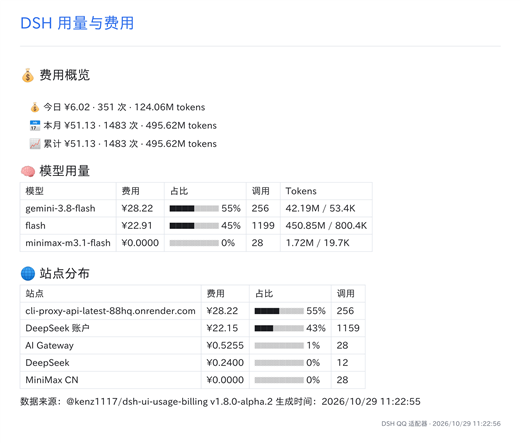
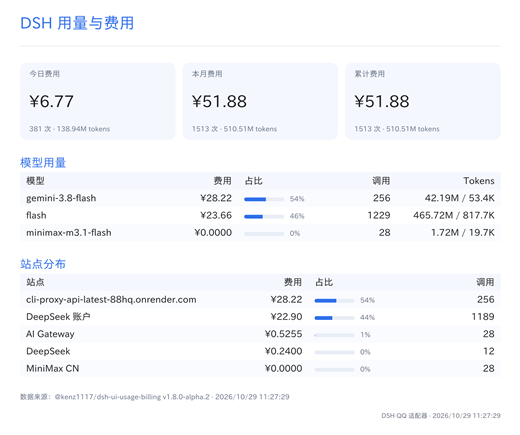
feat(usage): dedicated Typst card layout
- add buildUsageTypst(): rounded stat cards for today/month/total, optional
  budget card with progress bar, per-model/site share bars, zebra tables,
  accent section titles, and light/dark palettes.
- renderTextWithTypst/renderTextImage accept a raw `typstBody`, bypassing the
  Markdown converter; /usage sends the custom card with the Markdown summary
  kept as the text fallback.
- escape Typst markup in data notes and model/site names.
- refresh docs/images/usage-billing.png; README/CHANGELOG updated.
- tests: usage layout + custom Typst body compile; full suite 271 / 270 pass /
  1 skip. Version remains 0.2.2.

diff --git a/lib/sync/usage.js b/lib/sync/usage.js
@@ -268,3 +268,160 @@ export function buildUsageMarkdown(stats = {}, now = Date.now()) {
   );
   return lines.join('\n');
 }
+
+/** Escape plain text placed inside a Typst content block. */
+function typstEscape(value) {
+  return String(value ?? '').replace(/[\\)#$[\]*_`<>@~]/g, (char) => `\\${char}`);
+}
+
+const TYPST_PALETTES = {
+  light: {
+    text: '#1c1d21',
+    muted: '#667085',
+    accent: '#2f6feb',
+    card: '#f4f7fd',
+    border: '#e6eaf2',
+    barBg: '#e8edf6',
+    rowAlt: '#fafbfe',
+  },
+  dark: {
+    text: '#e8eaed',
+    muted: '#a0a6b2',
+    accent: '#79a6ff',
+    card: '#1c222b',
+    border: '#2c313a',
+    barBg: '#2b323d',
+    rowAlt: '#181d25',
+  },
+};
+
+/**
+ * Dedicated Typst layout for `/usage` (rounded stat cards, budget progress,
+ * share bars and zebra tables) — separate from the generic Markdown renderer.
+ * @param {Object} stats
+ * @param {{now?:number, theme?:'light'|'dark'}} [options]
+ * @returns {string} Typst markup (body only)
+ */
+export function buildUsageTypst(stats = {}, { now = Date.now(), theme = 'light' } = {}) {
+  const c = TYPST_PALETTES[theme === 'dark' ? 'dark' : 'light'];
+  const todayKey = localDayKey(new Date(now));
+  const monthKey = todayKey.slice(0, 7);
+  const byDay = stats.byDay && typeof stats.byDay === 'object' ? stats.byDay : {};
+  const today = sumRows([byDay[todayKey] || {}]);
+  const month = sumRows(
+    Object.entries(byDay)
+      .filter(([day]) => String(day).startsWith(monthKey))
+      .map(([, cell]) => cell)
+  );
+  const total = {
+    cost: Number(stats.total?.cost) || 0,
+    calls: Number(stats.total?.calls) || 0,
+    input: Number(stats.total?.input) || 0,
+    output: Number(stats.total?.output) || 0,
+  };
+  const byModel = Object.entries(stats.byModel && typeof stats.byModel === 'object' ? stats.byModel : {})
+    .map(([model, cell]) => ({ model, ...sumRows([cell]) }))
+    .sort((a, b) => b.cost - a.cost)
+    .slice(0, 6);
+  const bySite = Object.entries(stats.bySite && typeof stats.bySite === 'object' ? stats.bySite : {})
+    .map(([site, cell]) => ({ site, ...sumRows([cell]) }))
+    .sort((a, b) => b.cost - a.cost)
+    .slice(0, 5);
+  const totalCost = total.cost > 0 ? total.cost : byModel.reduce((sum, row) => sum + row.cost, 0);
+  const share = (cost) => (totalCost > 0 ? Math.min(100, Math.round((Number(cost) / totalCost) * 100)) : 0);
+  const siteTotal = bySite.reduce((sum, row) => sum + row.cost, 0);
+  const siteShare = (cost) => (siteTotal > 0 ? Math.round((Number(cost) / siteTotal) * 100) : 0);
+
+  const card = (label, value, sub) =>
+    `block(width: 100%, fill: rgb("${c.card}"), radius: 9pt, inset: (x: 12pt, y: 11pt))[
+  #text(size: 10pt, fill: rgb("${c.muted}"))[${label}]
+  #v(3pt)
+  #text(size: 21pt, weight: "bold", fill: rgb("${c.text}"))[${value}]
+  #v(3pt)
+  #text(size: 9pt, fill: rgb("${c.muted}"))[${sub}]
+]`;
+  const shareCell = (percent) =>
+    `#box(width: 52pt, height: 5pt, radius: 2.5pt, fill: rgb("${c.barBg}"), clip: true)[#rect(width: ${percent}%, height: 5pt, fill: rgb("${c.accent}"))] #h(4pt) #text(size: 9pt, fill: rgb("${c.muted}"))[${percent}%]`;
+
+  const cards = [
+    card('今日费用', formatMoney(today.cost), `${today.calls} 次 · ${formatTokens(today.input + today.output)} tokens`),
+    card('本月费用', formatMoney(month.cost), `${month.calls} 次 · ${formatTokens(month.input + month.output)} tokens`),
+    card('累计费用', formatMoney(total.cost), `${total.calls} 次 · ${formatTokens(total.input + total.output)} tokens`),
+  ].join(',\n  ');
+
+  const modelRows = byModel
+    .map(
+      (row) =>
+        `[${typstEscape(row.model)}], [${formatMoney(row.cost)}], [${shareCell(
+          share(row.cost)
+        )}], [${row.calls}], [${formatTokens(row.input)} / ${formatTokens(row.output)}]`
+    )
+    .join(',\n  ');
+
+  const siteRows = bySite
+    .map(
+      (row) =>
+        `[${typstEscape(displaySite(row.site))}], [${formatMoney(row.cost)}], [${shareCell(
+          siteShare(row.cost)
+        )}], [${row.calls}]`
+    )
+    .join(',\n  ');
+
+  const budget = Number(stats.budget);
+  const budgetBlock =
+    Number.isFinite(budget) && budget > 0
+      ? (() => {
+          const used = Math.min(100, (month.cost / budget) * 100);
+          return `\n#v(9pt)
+#block(width: 100%, fill: rgb("${c.card}"), radius: 9pt, inset: (x: 14pt, y: 12pt))[
+  #grid(columns: (1fr, auto),
+    [#text(size: 10pt, fill: rgb("${c.muted}"))[本月预算 ${formatMoney(budget)}]],
+    [#text(size: 9pt, fill: rgb("${c.muted}"))[剩余 ${formatMoney(Math.max(0, budget - month.cost))}]]
+  )
+  #v(4pt)
+  #text(size: 11pt, weight: "bold", fill: rgb("${c.text}"))[已用 ${used.toFixed(1)}%]
+  #v(6pt)
+  #box(width: 100%, height: 7pt, radius: 3.5pt, fill: rgb("${c.barBg}"), clip: true)[
+    #rect(width: ${used.toFixed(1)}%, height: 7pt, fill: rgb("${c.accent}"))
+  ]
+]`;
+        })()
+      : '';
+
+  const dataNote = `#v(10pt)
+#text(size: 9pt, fill: rgb("${c.muted}"))[数据来源：\\@kenz1117/dsh-ui-usage-billing${
+    stats.pluginVersion ? ` v${stats.pluginVersion}` : ''
+  } · ${new Date(now).toLocaleString('zh-CN', { hour12: false })}]`;
+
+  return `#grid(columns: (1fr, 1fr, 1fr), gutter: 9pt,
+  ${cards}
+)
+${budgetBlock}
+#v(12pt)
+#block(below: 7pt)[#text(size: 15pt, weight: "bold", fill: rgb("${c.accent}"))[模型用量]]
+#table(
+  columns: (1.5fr, 0.7fr, 1.05fr, 0.55fr, 1.05fr),
+  inset: (x: 8pt, y: 7pt),
+  align: (left, right, left, right, right),
+  stroke: none,
+  fill: (col, row) => if row == 0 { rgb("${c.card}") } else if calc.odd(row) { rgb("${c.rowAlt}") } else { none },
+  table.header(
+    [*模型*], [*费用*], [*占比*], [*调用*], [*Tokens*]
+  ),
+  ${modelRows || '[暂无模型用量数据。], [], [], [], []'}
+)
+${bySite.length > 0 ? `#v(12pt)
+#block(below: 7pt)[#text(size: 15pt, weight: "bold", fill: rgb("${c.accent}"))[站点分布]]
+#table(
+  columns: (1.7fr, 0.7fr, 1.05fr, 0.55fr),
+  inset: (x: 8pt, y: 7pt),
+  align: (left, right, left, right),
+  stroke: none,
+  fill: (col, row) => if row == 0 { rgb("${c.card}") } else if calc.odd(row) { rgb("${c.rowAlt}") } else { none },
+  table.header(
+    [*站点*], [*费用*], [*占比*], [*调用*]
+  ),
+  ${siteRows}
+)` : ''}
+${dataNote}`;
+}

diff --git a/lib/sync/message-bridge.js b/lib/sync/message-bridge.js
@@ -14,7 +14,7 @@ import {
   hasTerminalPlugin,
   hasTerminalTool,
 } from './task-overview.js';
-import { buildUsageMarkdown, fetchUsageStats, hasUsageBillingPlugin } from './usage.js';
+import { buildUsageMarkdown, buildUsageTypst, fetchUsageStats, hasUsageBillingPlugin } from './usage.js';
 
 /**
  * Extract a positive 1-based page number from command arguments.
@@ -1772,15 +1772,17 @@ export class MessageBridge {
   }
 
   /**
-   * Render Markdown into a PNG/SVG and send it, falling back to plain text.
+   * Render Markdown (or a dedicated Typst body) into a PNG/SVG and send it,
+   * falling back to plain text.
    * @param {string} userOpenid
-   * @param {{markdown:string,title:string,caption?:string,msgId?:string}} options
+   * @param {{markdown:string,typstBody?:string,title:string,caption?:string,msgId?:string}} options
    */
-  async sendOverviewImage(userOpenid, { markdown, title, caption = '', msgId }) {
+  async sendOverviewImage(userOpenid, { markdown, typstBody = '', title, caption = '', msgId }) {
     const cfg = this.getConfig();
     try {
       const rendered = await renderTextImage({
         text: markdown,
+        typstBody,
         title,
         theme: cfg.renderTheme || 'light',
         width: Number(cfg.renderWidth) || 900,
@@ -1902,9 +1904,11 @@ export class MessageBridge {
     try {
       const stats = await fetchUsageStats({ ctx: this.ctx });
       const markdown = buildUsageMarkdown(stats);
+      const typstBody = buildUsageTypst(stats, { theme: this.getConfig().renderTheme || 'light' });
       const version = stats?.pluginVersion ? ` v${stats.pluginVersion}` : '';
       await this.sendOverviewImage(userOpenid, {
         markdown,
+        typstBody,
         title: 'DSH 用量与费用',
         caption: `> 数据来源：\`@kenz1117/dsh-ui-usage-billing${version}\``,
         msgId,

diff --git a/test/usage.test.js b/test/usage.test.js
@@ -3,6 +3,7 @@ import assert from 'node:assert/strict';
 
 import {
   buildUsageMarkdown,
+  buildUsageTypst,
   fetchUsageStats,
   hasUsageBillingPlugin,
   resolveWebOrigin,
@@ -106,5 +107,25 @@ describe('usage billing integration', () => {
     const markdown = buildUsageMarkdown({}, Date.now());
     assert.ok(markdown.includes('暂无模型用量数据'));
     assert.ok(markdown.includes('累计'));
+  });
+
+  it('builds a dedicated Typst card layout with budget and theme colors', () => {
+    const body = buildUsageTypst(
+      {
+        budget: 100,
+        total: { cost: 12, calls: 20, input: 1000, output: 500 },
+        byModel: { 'deepseek-v4': { cost: 10, calls: 12, input: 900, output: 400 } },
+        bySite: { 'direct:deepseek': { cost: 10, calls: 12 } },
+        pluginVersion: '1.8.0',
+      },
+      { theme: 'dark', now: Date.now() }
+    );
+    assert.ok(body.includes('今日费用'));
+    assert.ok(body.includes('模型用量'));
+    assert.ok(body.includes('站点分布'));
+    assert.ok(body.includes('本月预算'));
+    assert.ok(body.includes('#1c222b'));
+    assert.ok(body.includes('DeepSeek'));
+    assert.ok(body.includes('\\@kenz1117')); // escaped for Typst references
   });
 });

diff --git a/test/typst.test.js b/test/typst.test.js
@@ -97,4 +97,30 @@ describe('Typst engine rendering', () => {
       await fsp.rm(dir, { recursive: true, force: true });
     }
   });
+
+  it('renders a custom Typst body without markdown conversion', async (t) => {
+    if (!resolveTypstAssets()) {
+      t.skip('typst binary or fonts unavailable');
+      return;
+    }
+    const dir = await fsp.mkdtemp(path.join(os.tmpdir(), 'dsh-typst-custom-'));
+    const outPath = path.join(dir, 'custom.png');
+    try {
+      const result = await renderTextWithTypst({
+        typstBody: '#block(fill: rgb("#eef3ff"), radius: 8pt, inset: 12pt)[#text(size: 20pt)[自定义 *Typst* 卡片 ✅]]',
+        title: 'Custom Typst',
+        width: 600,
+        theme: 'light',
+        outPath,
+        logger: { warn() {} },
+      });
+      assert.ok(result);
+      assert.equal(result.engine, 'typst');
+      assert.equal(result.width, 1200);
+      assert.ok(result.height > 100);
+      assert.ok(result.bytes > 1000);
+    } finally {
+      await fsp.rm(dir, { recursive: true, force: true });
+    }
+  });
 });

diff --git a/lib/render/typst.js b/lib/render/typst.js
@@ -363,6 +363,7 @@ function parsePngSize(bytes) {
  */
 export async function renderTextWithTypst({
   text = '',
+  typstBody = '',
   title = '',
   subtitle = '',
   width = 900,
@@ -379,7 +380,7 @@ export async function renderTextWithTypst({
     tmpDir = await fsp.mkdtemp(path.join(os.tmpdir(), 'dsh-typst-'));
     const typPath = path.join(tmpDir, 'doc.typ');
     const source = buildTypstDocument({
-      body: markdownToTypst(text),
+      body: typstBody || markdownToTypst(text),
       title,
       subtitle,
       width,

diff --git a/lib/render/index.js b/lib/render/index.js
@@ -81,6 +81,7 @@ function formatStamp(date = new Date()) {
  */
 export async function renderTextImage({
   text = '',
+  typstBody = '',
   title = '',
   subtitle = '',
   theme = 'light',
@@ -108,6 +109,7 @@ export async function renderTextImage({
     const outPath = path.join(outputDir, `${baseName}.png`);
     const result = await renderTextWithTypst({
       text: bodyText,
+      typstBody: String(typstBody ?? ''),
       title: docTitle,
       subtitle: docSubtitle,
       theme: safeTheme,

diff --git a/README.md b/README.md
@@ -44,7 +44,7 @@
   - 示例（主代理 + 团队成员 + 后台任务）：
     <img src="docs/images/agent-status.png" width="480" alt="代理与后台任务状态图" />
 - 💰 **用量计费联动（可选）**：
-  - 检测到 `@kenz1117/dsh-ui-usage-billing` 时自动注册 `/usage`（`/用量`、`/费用`、`/账单`），读取本机 `GET /api/billing/usage-stats`，用 Typst 渲染费用总览、预算进度、模型/站点占比。
+  - 检测到 `@kenz1117/dsh-ui-usage-billing` 时自动注册 `/usage`（`/用量`、`/费用`、`/账单`），读取本机 `GET /api/billing/usage-stats`，用专用 Typst 卡片渲染费用总览、预算进度、模型/站点占比。
   - 未安装时发送 `/usage` 会提示安装方式；底部菜单与 `/help` 仅在检测到该插件时加入「用量」入口。
   - 示例：<img src="docs/images/usage-billing.png" width="480" alt="用量与费用卡片" />
 - 🖼 **富媒体收发（图片 / 文件）**：
@@ -307,14 +307,14 @@ pnpm test
 ✔ ApprovalHandler / multi-question (5 tests passed)
 ✔ MessageBridge (27 tests passed)
 ✔ Task overview (11 tests passed)
-✔ Usage billing integration (7 tests passed)
+✔ Usage billing integration (8 tests passed)
 ✔ Render engines (33 passed, 1 skipped)
-✔ Typst engine / markdown conversion (6 tests passed)
+✔ Typst engine / markdown conversion (7 tests passed)
 ✔ qq_render_text_image tool (14 tests passed)
 ✔ AdminInventory (27 tests passed)
 ✔ qq_send_file tool (20 tests passed)
-ℹ tests 269
-ℹ pass 268
+ℹ tests 271
+ℹ pass 270
 ℹ skipped 1
 ℹ fail 0
 ```

diff --git a/CHANGELOG.md b/CHANGELOG.md
@@ -45,16 +45,17 @@ and this project adheres to [Semantic Versioning](https://semver.org/).
   `GET /api/billing/usage-stats`, and renders today/month/total cost plus
   model/site tops as a Typst image; the bottom menu and `/help` add the entry
   only when the plugin is detected.
-- `/usage` presentation polished: quote-style cost summary, optional budget
-  progress bar, per-model/site share bars, combined input/output tokens, and
-  cleaned site names (`site:` host only, `direct:` provider labels); docs
-  example added at `docs/images/usage-billing.png`.
+- `/usage` now renders a dedicated Typst layout instead of generic Markdown:
+  rounded stat cards for today/month/total, an optional budget progress bar,
+  per-model/site share bars, zebra tables, cleaned site names (`site:` host
+  only, `direct:` provider labels) and light/dark palettes. The README example
+  is `docs/images/usage-billing.png`.
 - Docs: refreshed `docs/images/workspace-sessions.png` with the quote-block
   hierarchy and added `docs/images/agent-status.png` for `/status`.
-- Tests: 269 total (268 pass, 1 skipped), covering path modes, label fallbacks,
+- Tests: 271 total (270 pass, 1 skipped), covering path modes, label fallbacks,
   schedule formatting, team/job capability gating, isolated-terminal detection
   via Agent context/tools/Loader inventory, cold-session permission derivation,
-  usage-billing detection/fetch/format, and conditional menu items.
+  usage-billing detection/fetch/format, the dedicated Typst usage card, and conditional menu items.
 
 ## [0.2.1] - 2026-10-28
 
